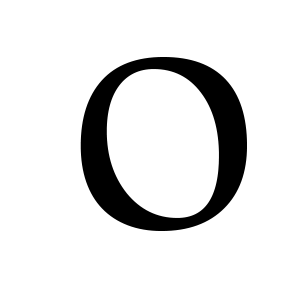
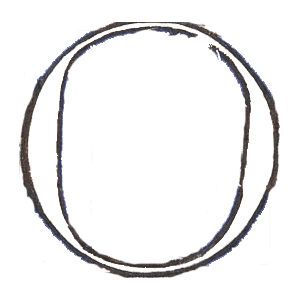
Experimental letter O.

Changed region(s): [[0.06, 0.06, 0.93, 0.93]]

diff --git a/scriberler.js b/scriberler.js
@@ -18,7 +18,7 @@ const letters = {
   L: { steps: 1, css: {} },
   M: { steps: 1, css: {} },
   N: { steps: 1, css: {} },
-  O: { steps: 1, css: {} },
+  O: { steps: 3, css: {} },
   P: { steps: 1, css: {} },
   Q: { steps: 1, css: {} },
   R: { steps: 1, css: {} },
